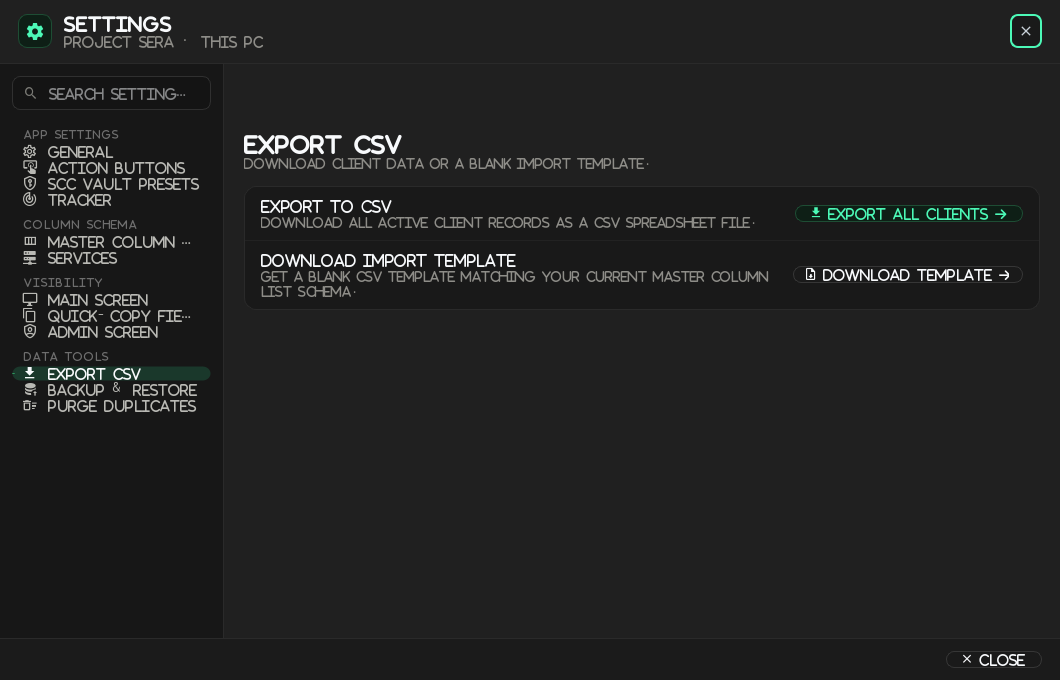
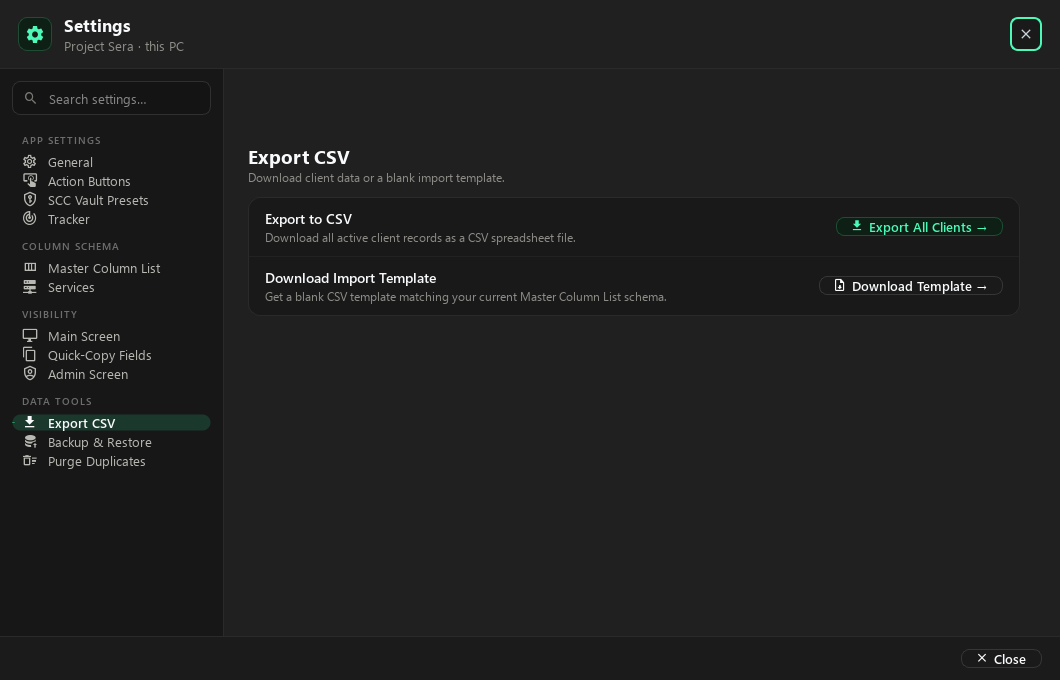
ui-overhaul P-10: Settings hub: nav spacing 2, pages 18/24/24 with a 12 px gap and a 820 px card column, page titles 19 px (PageHeader.set_title_px), Manage Columns and Services toolbars back to the small size

diff --git a/ui/dialogs/unified_settings_dialog.py b/ui/dialogs/unified_settings_dialog.py
@@ -44,7 +44,7 @@ from ui.components.kit import (
 )
 from ui.dialogs.mcl_manager_dialog import mcl_role as _mcl_role
 from ui.utils.masking import mask_password
-from ui.utils.tokens import TOKENS
+from ui.utils.tokens import KIT, TOKENS
 
 try:
     import qtawesome as qta
@@ -286,7 +286,7 @@ class UnifiedSettingsDialog(QDialog):
         nav_w.setObjectName("SidebarScrollContent")
         self._nav_layout = QVBoxLayout(nav_w)
         self._nav_layout.setContentsMargins(0, 0, 0, 0)
-        self._nav_layout.setSpacing(1)
+        self._nav_layout.setSpacing(KIT["gap_set_nav"])
 
         def _sec(txt):
             lbl = NavLabel(txt)
@@ -384,10 +384,13 @@ class UnifiedSettingsDialog(QDialog):
     def _kit_page(self, *blocks) -> QScrollArea:
         """Scrolling settings page: the blocks stacked with kit spacing, no legacy colours."""
         content = QWidget()
+        content.setMaximumWidth(KIT["w_stack"])      # the mockup's .stack: cards stop at 820 px
         lay = QVBoxLayout(content)
-        lay.setContentsMargins(TOKENS["s_5"], TOKENS["s_3"], TOKENS["s_5"], TOKENS["s_6"])
-        lay.setSpacing(TOKENS["s_4"])
+        lay.setContentsMargins(KIT["pad_set_h"], KIT["pad_set_top"], KIT["pad_set_h"], KIT["pad_set_bot"])
+        lay.setSpacing(KIT["gap_main"])
         for block in blocks:
+            if isinstance(block, PageHeader):
+                block.set_title_px(KIT["f_set_title"])   # owner decision 8: Settings titles at 19 px
             lay.addWidget(block)
         lay.addStretch(1)
         scroll = QScrollArea()
@@ -677,16 +680,16 @@ class UnifiedSettingsDialog(QDialog):
         header = PageHeader("Master Column List",
             lead="The schema for every client field; changes apply at once. "
                  "Shows on ticks (M · Q · A) wait for Save.")
-        self._mcl_btn_add = LabelledAction("Add column", variant="primary", icon="mdi.plus",
+        self._mcl_btn_add = LabelledAction("Add column", sm=True, variant="primary", icon="mdi.plus",
                                            tooltip="Add a column to the Master Column List")
         header.add_action(self._mcl_btn_add)
 
         self._mcl_sel_tag = Tag("Selected: —")
-        self._mcl_btn_edit = LabelledAction("Edit", icon="mdi.pencil-outline",
+        self._mcl_btn_edit = LabelledAction("Edit", sm=True, icon="mdi.pencil-outline",
                                             tooltip="Edit the selected column")
-        self._mcl_btn_up = LabelledAction("Move up", icon="mdi.arrow-up",
+        self._mcl_btn_up = LabelledAction("Move up", sm=True, icon="mdi.arrow-up",
                                           tooltip="Move the selected column up (Alt+↑)")
-        self._mcl_btn_dn = LabelledAction("Move down", icon="mdi.arrow-down",
+        self._mcl_btn_dn = LabelledAction("Move down", sm=True, icon="mdi.arrow-down",
                                           tooltip="Move the selected column down (Alt+↓)")
         self._mcl_btn_del = LabelledAction("Delete column…", variant="danger", icon="mdi.delete-outline",
                                            tooltip="Asks first: all client values in this column are removed")
@@ -744,11 +747,11 @@ class UnifiedSettingsDialog(QDialog):
     def _build_page_services(self) -> QWidget:
         header = PageHeader("Services",
             lead="Define compliance portals and automation services. Changes apply at once.")
-        self._svc_btn_add = LabelledAction("Add service", variant="primary", icon="mdi.plus",
+        self._svc_btn_add = LabelledAction("Add service", sm=True, variant="primary", icon="mdi.plus",
                                            tooltip="Add a compliance service")
         header.add_action(self._svc_btn_add)
 
-        self._svc_btn_edit = LabelledAction("Edit", icon="mdi.pencil-outline",
+        self._svc_btn_edit = LabelledAction("Edit", sm=True, icon="mdi.pencil-outline",
                                             tooltip="Edit the selected service")
         self._svc_btn_del = LabelledAction("Delete service…", variant="danger", icon="mdi.delete-outline",
                                            tooltip="Asks first: the service is detached from all client profiles")

diff --git a/ui/components/kit.py b/ui/components/kit.py
@@ -3664,6 +3664,11 @@ class PageHeader(QFrame):
         self._lay.addWidget(text, 1)
         self.setStyleSheet(_page_hd_qss(False, self._title_px))
 
+    def set_title_px(self, px):
+        """The title's pixel size (Settings pages use 19 px; None goes back to the default)."""
+        self._title_px = px
+        self.setStyleSheet(_page_hd_qss(self._compact, self._title_px))
+
     def title(self):
         return self.title_label.text()
 

diff --git a/ui/utils/tokens.py b/ui/utils/tokens.py
@@ -316,6 +316,7 @@ KIT = {
     "gap_banner": 10,
     "gap_filter_row": 10,
     "w_search_max": 360,
+    "gap_set_nav": 2,
     "h_tile_num": 22,
     "h_tile_num_sm": 18,
     "h_tile_lbl": 17,
